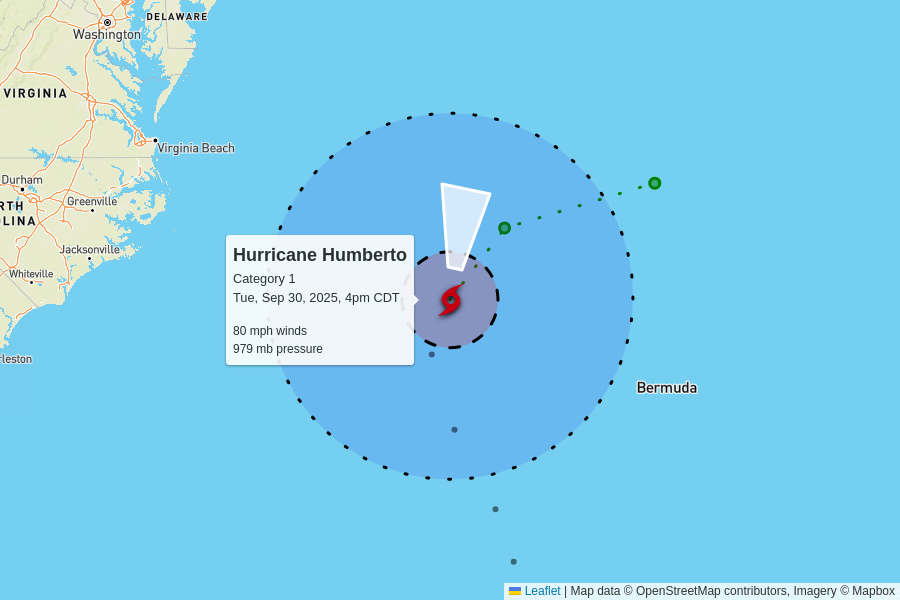
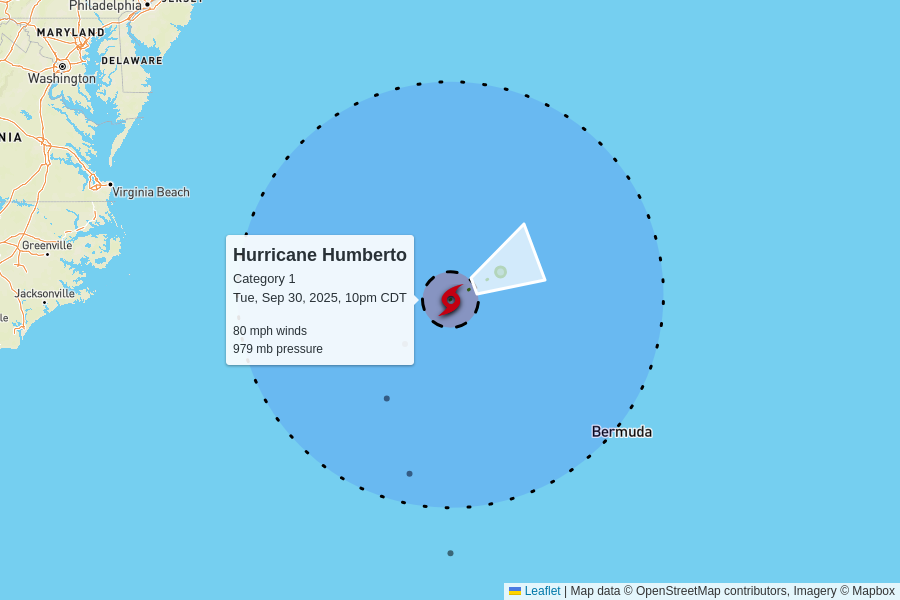
automatic update

diff --git a/docs/index.html b/docs/index.html
@@ -104,7 +104,7 @@
         <td colspan="6" class="storm category-1" >
           <h2>
             Hurricane Humberto - Category 1
-            <p class="updated">last updated <span data-time>2025-09-30T21:00:00.000Z</span></p>
+            <p class="updated">last updated <span data-time>2025-10-01T03:00:00.000Z</span></p>
           </h2>
         </td>
       </tr>
@@ -122,9 +122,9 @@
         <td>80 mph<br>0 mph since last update</td>
         <td>979 mb<br>0 mb since last update</td>
         <td>
-          17 mph to the north
+          10 mph to the east-northeast
           <br/>
-          <span style="display: inline-block; font-size: 1.5em; transform: rotate(10deg);">↑</span>
+          <span style="display: inline-block; font-size: 1.5em; transform: rotate(65deg);">↑</span>
         </td>
         <td><a href="https://raw.githubusercontent.com/mgwalker/atlantic-hurricanes/main/data/csv/AL082025.csv">AL082025.csv</a></td>
         <td><a href="https://www.nhc.noaa.gov/archive/2025/HUMBERTO.shtml?">NHC advisories</a></td>
@@ -148,7 +148,7 @@
         <td colspan="6" class="storm category-1" >
           <h2>
             Hurricane Imelda - Category 1
-            <p class="updated">last updated <span data-time>2025-09-30T21:00:00.000Z</span></p>
+            <p class="updated">last updated <span data-time>2025-10-01T03:00:00.000Z</span></p>
           </h2>
         </td>
       </tr>
@@ -163,12 +163,12 @@
       </tr>
       <tr>
         <td class="spacer"></td>
-        <td>85 mph<br>+5 mph since last update</td>
-        <td>978 mb<br>-2 mb since last update</td>
+        <td>85 mph<br>0 mph since last update</td>
+        <td>977 mb<br>-1 mb since last update</td>
         <td>
-          12 mph to the east-northeast
+          15 mph to the east-northeast
           <br/>
-          <span style="display: inline-block; font-size: 1.5em; transform: rotate(60deg);">↑</span>
+          <span style="display: inline-block; font-size: 1.5em; transform: rotate(70deg);">↑</span>
         </td>
         <td><a href="https://raw.githubusercontent.com/mgwalker/atlantic-hurricanes/main/data/csv/AL092025.csv">AL092025.csv</a></td>
         <td><a href="https://www.nhc.noaa.gov/archive/2025/IMELDA.shtml?">NHC advisories</a></td>
